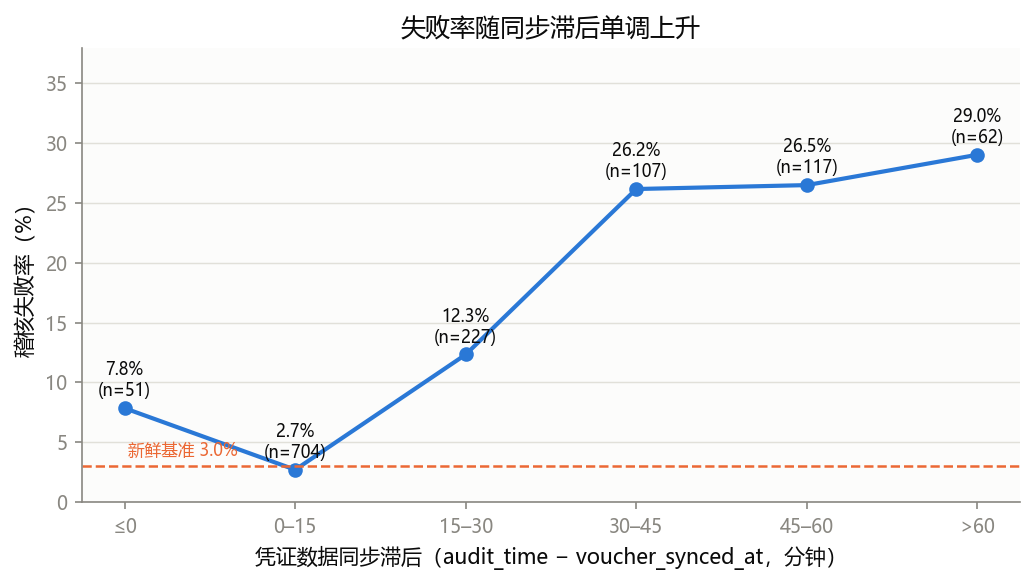
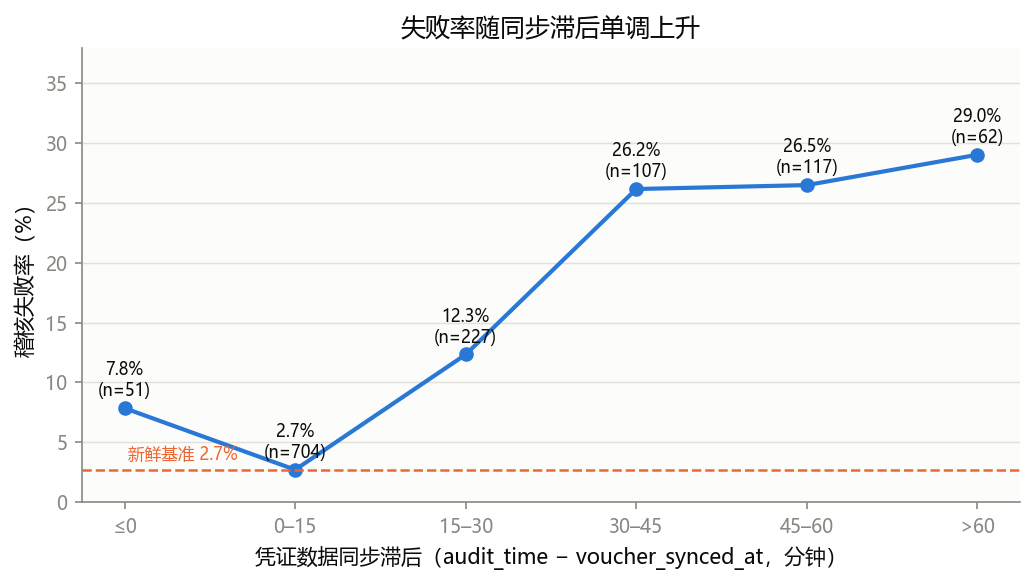
收尾：补齐可复现脚本清单与依赖、加数据来源声明、统一新鲜基准口径为2.7%

Changed region(s): [[0.0928, 0.7385, 0.9894, 0.8308]]

diff --git a/scripts/p5_charts.py b/scripts/p5_charts.py
@@ -47,7 +47,7 @@ labels = ["≤0", "0–15", "15–30", "30–45", "45–60", ">60"]
 df["bkt"] = pd.cut(df["lag"], bins=bins, labels=labels)
 g = df.groupby("bkt", observed=True).agg(条数=("audit_id", "count"), 失败=("is_fail", "sum"))
 g["失败率%"] = g["失败"] / g["条数"] * 100
-baseline = df[df["lag"].between(0, 15)]["is_fail"].mean() * 100
+baseline = df[(df["lag"] > 0) & (df["lag"] <= 15)]["is_fail"].mean() * 100
 
 fig, ax = plt.subplots(figsize=(7, 4), dpi=150)
 x = range(len(g))

diff --git a/README.md b/README.md
@@ -8,6 +8,8 @@
 
 数据是 `audit_records.csv`（1268 条稽核流水）。先把 `audit_time` 和 `voucher_synced_at` 转为同一时区（+08:00），再统计 `audit_result` 和其他属性之间是否有联系。
 
+> **数据说明**：本分析仅使用题目发放的 `audit_records.csv`，未补造任何数据；文中所有数字均可由 `scripts/` 下的脚本复现。
+
 `audit_result` 分布：
 
 | audit_result | 含义 | 条数 | 占比 |
@@ -70,15 +72,22 @@
 
 ## 四、可复现脚本
 
-依赖：Python 3 + pandas。
+依赖：Python 3 + pandas + numpy + matplotlib。
 
 ```bash
-pip install pandas
+pip install pandas numpy matplotlib
 
+# 核心分析（30 分钟内）
 python scripts/convert_timezone.py     # 生成 audit_records_processed.csv（统一时区）
 python scripts/analyze_bottleneck.py   # 失败分布 + 滞后按结果分组对比
 python scripts/analyze_bottleneck2.py  # 失败率(带分母) + 滞后单调性 + 机构/大类控制
 python scripts/analyze_credit_roi.py   # credit/金额验证 + ROI 测算
+
+# 后续迭代（见「六、改进记录」）
+python scripts/optimize_p1_threshold.py      # P1：credit/tax 阈值优化（结论不可行）
+python scripts/p4_model.py                   # P4：逻辑回归拦截模型（结论无需模型）
+python scripts/p5_negative_lag_robustness.py # P5：负滞后排查 + 稳健性
+python scripts/p5_charts.py                  # P5：生成 3 张图到 figures/
 ```
 
 ## 五、后续迭代方向（收益 / 成本 / 优先级）
